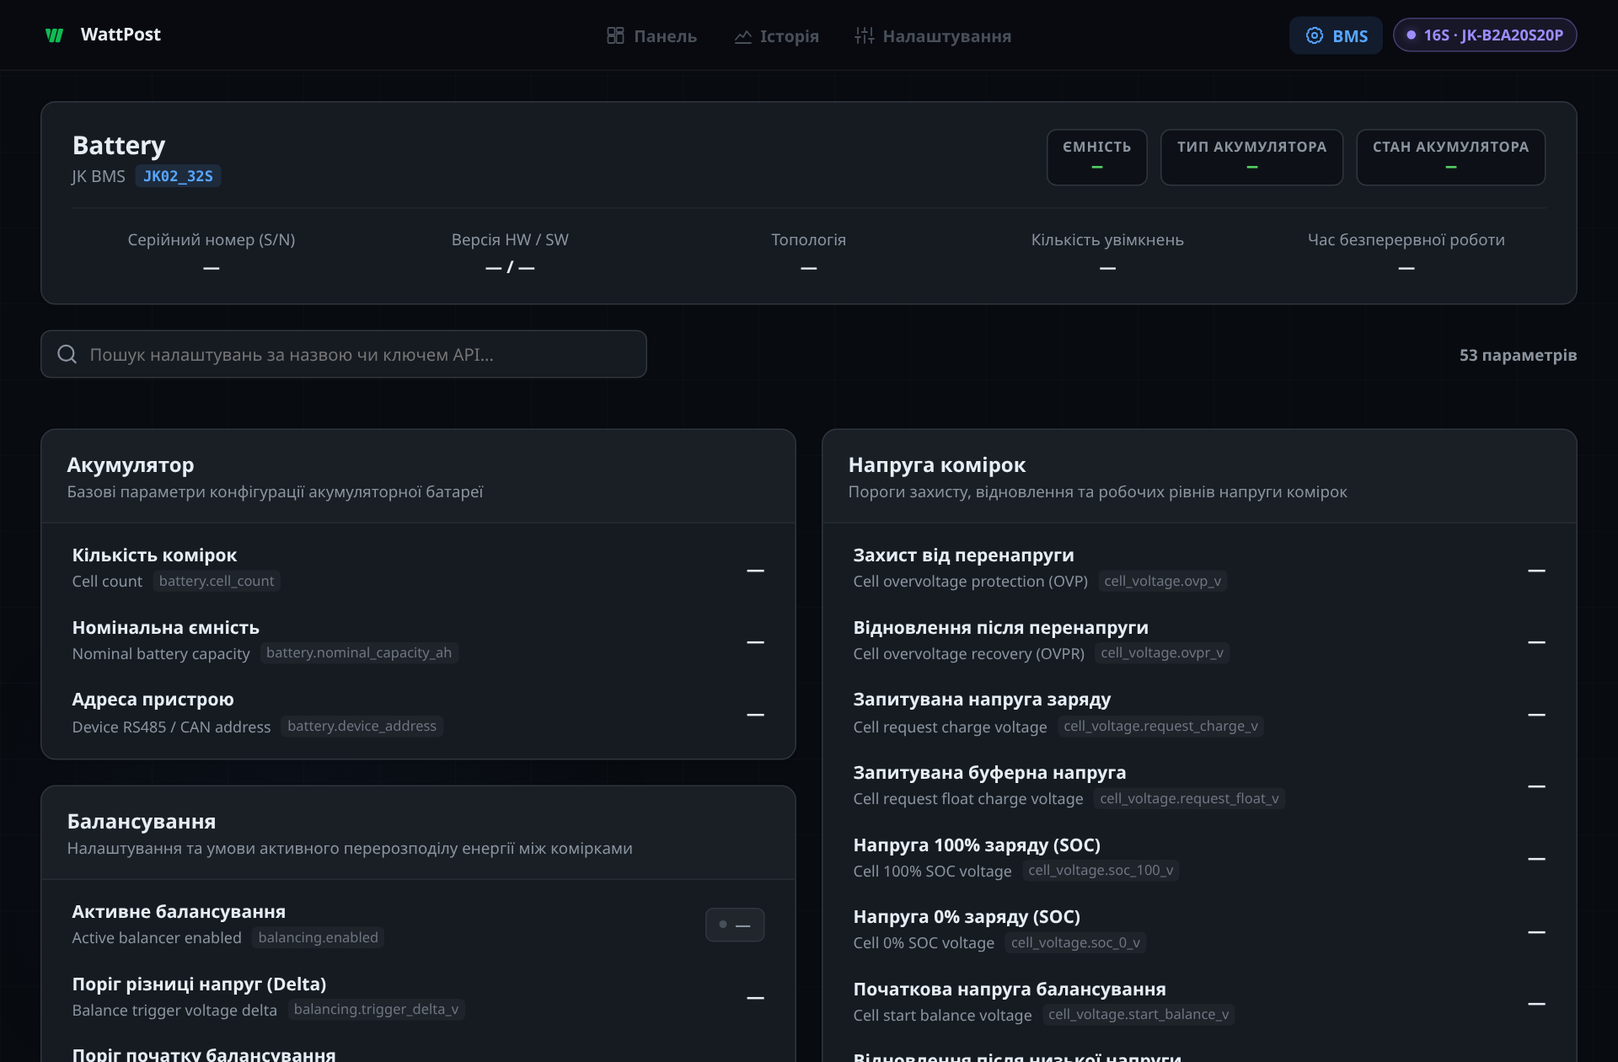
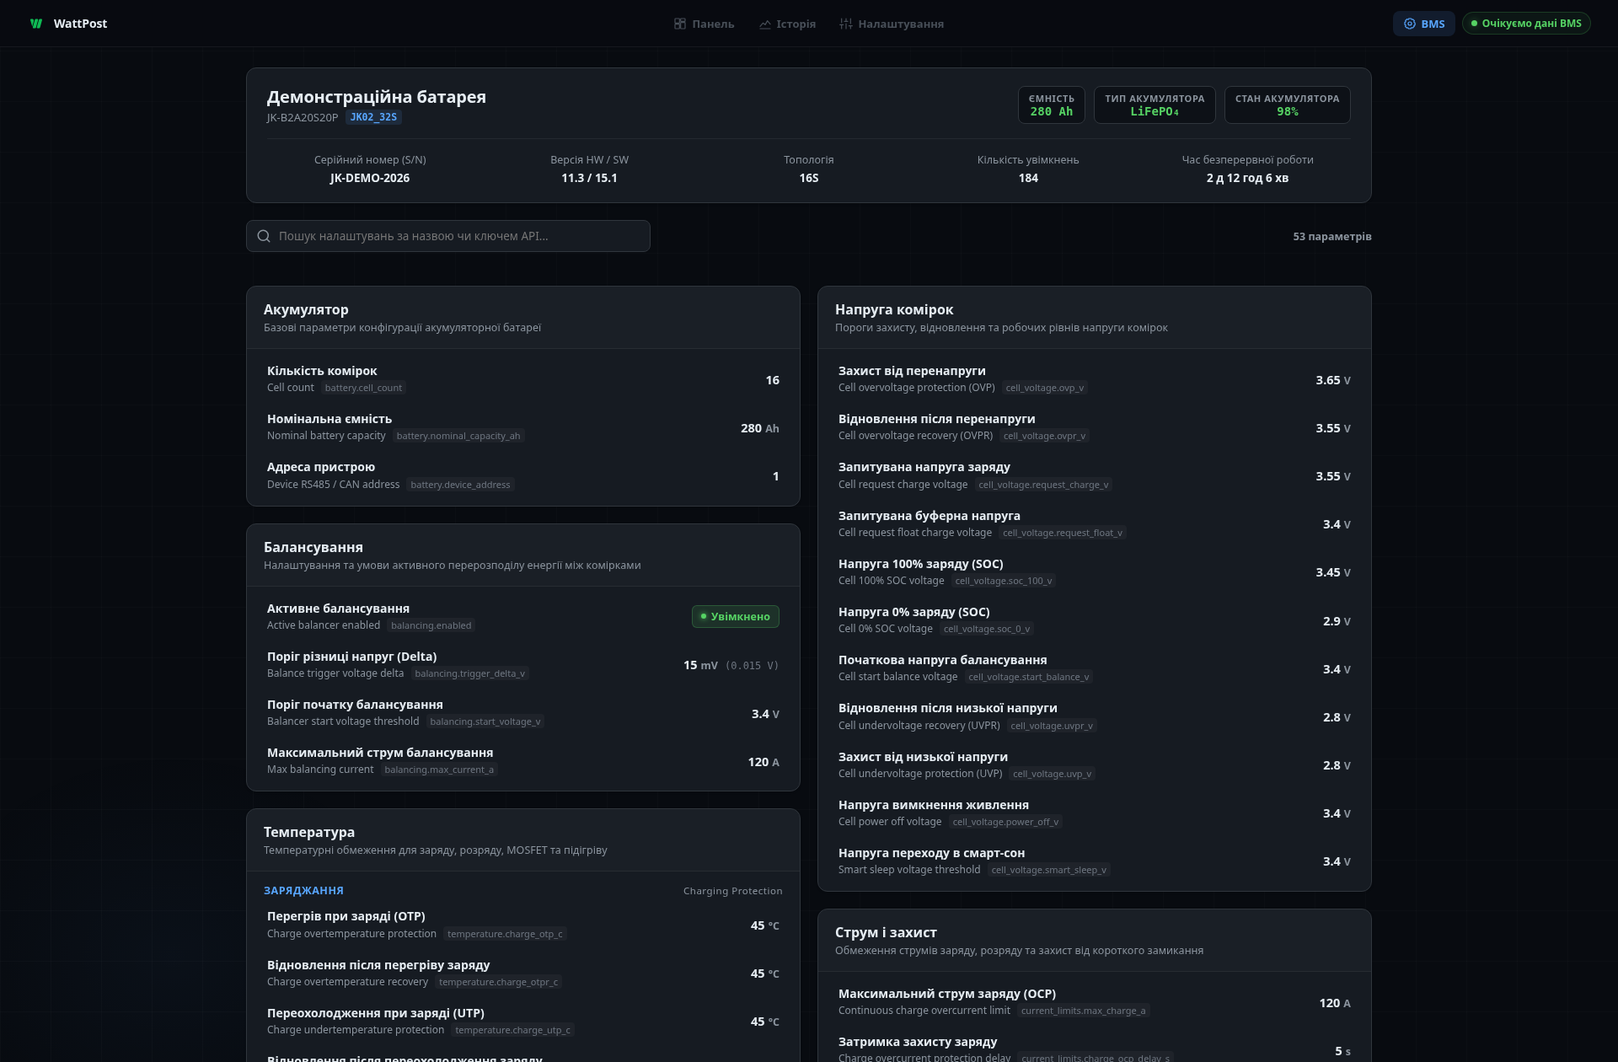
docs: verify beginner guidance and show populated demo BMS settings

diff --git a/README.md b/README.md
@@ -17,17 +17,17 @@
 
 ## Основні можливості
 
-- **Панель моніторингу (Dashboard)**  
+- **Панель моніторингу (Dashboard)**
   Візуалізація потоків енергії в реальному часі (заряд, розряд або очікування), рівень заряду (SOC %), загальна напруга, струм і активна потужність у ватах. Інтерактивні графічні індикатори напруги кожної комірки з автоматичним підсвічуванням найвищої та найнижчої комірок, балансування та дельта (розбіг у мілівольтах).
 
-- **Локальна історія до 14 днів (History)**  
+- **Локальна історія до 14 днів (History)**
   ESP32 накопичує дані у власній Flash-пам’яті без потреби в SD-картах чи сторонніх серверах. Графіки напруги, струму, потужності, температур і розбігу комірок дають змогу детально аналізувати цикли заряду та розряду. Дані зберігаються при перезавантаженні пристрою.
 
-- **Перегляд налаштувань BMS (BMS Settings)**  
+- **Перегляд налаштувань BMS (BMS Settings)**
   Зручне структуроване відображення всіх параметрів, зчитаних із JK BMS: захист за напругою (OVP/UVP), поріг та струм активного балансування, струмові ліміти, температурні відсічки, серійний номер, версії апаратного та програмного забезпечення BMS.
 
-- **Мобільна адаптивність**  
-  Інтерфейс розроблено за стандартом mobile-first: зручно користуватися як на великому моніторі комп'ютера, так і на екрані смартфона.
+- **Мобільна адаптивність**
+  Інтерфейс адаптовано для смартфонів: зручно користуватися як на великому моніторі комп'ютера, так і на екрані смартфона.
 
 ---
 
@@ -36,13 +36,13 @@
 ```
 ┌─────────────────┐       Bluetooth LE       ┌─────────────────┐        Wi-Fi (mDNS)        ┌─────────────────┐
 │     Акумулятор   │ ──────────────────────> │      ESP32      │ ─────────────────────────> │   Будь-який     │
-│    з JK BMS     │   (повна ізоляція,      │ з прошивкою     │    http://bms.local/       │   браузер       │
+│    з JK BMS     │   (без дротів,      │ з прошивкою     │    http://bms.local/       │   браузер       │
 │                 │    без дротів)          │   WattPost      │   (або IP-адреса)          │  (телефон/ПК)   │
 └─────────────────┘                         └─────────────────┘                            └─────────────────┘
 ```
 
-1. **JK BMS** постійно контролює стан батареї та транслює телеметрію через Bluetooth Low Energy (BLE).
-2. **ESP32** з прошивкою WattPost підключається до BMS по повітрю, обробляє пакети даних і записує історію. Між ESP32 та силовою батареєю немає жодних дротів чи пайки, що гарантує гальванічну безпеку.
+1. **JK BMS** постійно контролює стан батареї та надає телеметрію підключеному пристрою через Bluetooth Low Energy (BLE).
+2. **ESP32** з прошивкою WattPost підключається до BMS по повітрю, обробляє пакети даних і записує історію. Для отримання телеметрії ESP32 не потрібно підключати проводами до силових клем акумулятора.
 3. **Локальний вебінтерфейс** транслюється у вашу домашню Wi-Fi-мережу. Ви відкриваєте звичайний браузер і бачите все, що відбувається з акумулятором.
 
 ---
@@ -54,10 +54,10 @@
 | **Адреса** | `http://bms.local/` або локальна IP | [wattpost.pp.ua](https://wattpost.pp.ua) |
 | **Реєстрація** | **Не потрібна** | Потрібен безкоштовний акаунт |
 | **Інтернет** | **Не потрібен** (працює автономно) | Потрібен для віддаленого перегляду |
-| **Конфіденційність** | Усі дані залишаються у вашій мережі | Дані синхронізуються із захищеною хмарою |
+| **Конфіденційність** | Дані залишаються локально, якщо ви не ввімкнули Cloud | Дані синхронізуються із захищеною хмарою |
 | **Віддалений доступ** | Лише всередині Wi-Fi мережі | З будь-якої точки світу через інтернет |
 | **Кілька пристроїв** | Окремо на кожному пристрої | Моніторинг кількох ESP32 в одному кабінеті |
-| **Оновлення (OTA)** | Доступні при підключенні до інтернету | Автоматичні перевірені оновлення |
+| **Оновлення (OTA)** | Через підключений WattPost Cloud | Автоматичні або ручні підписані оновлення |
 
 > [!NOTE]
 > Локальний вебінтерфейс є повнофункціональним і незалежним. Підключення до WattPost Cloud є **повністю добровільним**. Якщо хмара або інтернет недоступні, ESP32 продовжує зчитувати показники BMS і зберігати історію локально.
@@ -125,7 +125,7 @@
 
 - **Безпека та верифікація**: прошивка підтримує оновлення повітрям (OTA). Кожен офіційний реліз підписується цифровим підписом. ESP32 перевіряє криптографічний підпис перед встановленням нового бінарного образу.
 - **Захист від збоїв (Rollback protection)**: у Flash-пам'яті виділено два чергових OTA-розділи. Якщо після оновлення система не зможе успішно запуститися, завантажувач автоматично повернеться до попередньої робочої версії.
-- **Оновлення без USB**: після першого запису через кабель усі наступні штатні оновлення можна здійснювати віддалено.
+- **Оновлення без USB**: після першого запису через кабель офіційні оновлення можна встановлювати через WattPost Cloud, якщо ESP32 підключена до інтернету.
 
 ---
 

diff --git a/docs/INSTALLATION.en.md b/docs/INSTALLATION.en.md
@@ -8,12 +8,12 @@ This guide is written for users who have never flashed an ESP32 or microcontroll
 
 ## 1. What You Need
 
-- **ESP32 Development Board**  
-  A classic **ESP32-WROOM-32** or **ESP32-WROOM-32D DevKit** with **4 MB Flash memory** and an onboard USB port (Micro-USB or Type-C).  
+- **ESP32 Development Board**
+  A classic **ESP32-WROOM-32** or **ESP32-WROOM-32D DevKit** with **4 MB Flash memory** and an onboard USB port (Micro-USB or Type-C).
   *Incompatible: bare modules without USB, or boards using different chips (ESP32-C3, ESP32-S3, etc. — currently a classic ESP32 is required).*
-- **Battery Pack with a Compatible JK BMS**  
-  Any modern JK BMS (JK-B1A..., JK-B2A..., JK-BD... series) equipped with **Bluetooth LE**.
-- **USB Data Cable**  
+- **Battery Pack with a Compatible JK BMS**
+  A compatible JK BMS with **Bluetooth LE**. Compatibility depends on the model and protocol version; Bluetooth alone does not guarantee support.
+- **USB Data Cable**
   *Crucial: cheap charge-only cables do not carry USB data lines and your computer will not detect the board.*
 - **Computer** running Windows, Linux, or macOS.
 - **2.4 GHz Home Wi-Fi Network** (ESP32 hardware supports 802.11 b/g/n 2.4 GHz; 5 GHz Wi-Fi networks are not supported by the chip).
@@ -67,7 +67,7 @@ We use Espressif's official, open-source command-line tool **`esptool`**.
    *(On Linux or macOS, use `python3` instead of `python`).*
 
 5. **Flash address `0x0`**: Because `WattPost-ESP32-full.bin` is a complete full-flash image, it is written starting at the very beginning of the flash memory (`0x0`).
-6. Wait 20–30 seconds until the terminal displays **"Hash of data verified. Leaving... Staying in bootloader"**.
+6. Wait for esptool to confirm that writing and verification succeeded. The time depends on the USB port and baud rate.
 7. Press the **EN** (or **RESET**) button on your ESP32 board to restart it in normal run mode.
 
 > [!TIP]
@@ -87,15 +87,15 @@ On first boot, the ESP32 broadcasts its own Wi-Fi access point for guided setup 
 1. Open the Wi-Fi settings on your phone or laptop.
 2. Find and connect to the network named **`WattPost-XXXX`** (where XXXX is unique to your board).
 3. Enter the default setup password: **`12345678`**.
-4. Most smartphones will automatically open the captive portal login screen. If it does not open automatically, navigate to:  
+4. Some phones will automatically open the captive portal setup screen. If it does not open automatically, navigate to:
    👉 **http://192.168.4.1/**
 5. Click **"Get Started"**:
    - **Step 1 — Wi-Fi**: Select your 2.4 GHz home Wi-Fi network from the list (or click "Scan"), enter the network password, and click "Connect". The ESP32 verifies the connection and obtains an IP address on your home LAN.
-   - **Step 2 — JK BMS**: The wizard will scan for nearby Bluetooth devices. Select your JK BMS from the list and confirm.
+   - **Step 2 — JK BMS**: The wizard lets you scan for a JK BMS. If your BMS is not available yet, you can finish Wi-Fi setup and select the BMS later from the local interface.
 6. Click **"Finish"**. The ESP32 saves the settings, disables the temporary setup AP, and switches to normal operating mode.
 
 > [!IMPORTANT]
-> **Important JK BMS Bluetooth Limitation:**  
+> **Important JK BMS Bluetooth Limitation:**
 > Most JK BMS units can only maintain **one active Bluetooth connection at a time**. If the official JK BMS mobile application is currently connected to the battery on your phone, disconnect and close the app. Otherwise, the BMS will appear busy and the ESP32 will not be able to connect.
 
 ---
@@ -109,9 +109,9 @@ Once setup is complete, reconnect your phone or computer to your normal home Wi-
 You will see the WattPost live dashboard displaying your battery's state in real time!
 
 ### What if bms.local does not load?
-The `bms.local` hostname uses mDNS (Bonjour / Avahi). Modern Apple devices, Linux, Windows 10/11, and modern Android versions resolve it out of the box.  
+The `bms.local` hostname uses mDNS (Bonjour / Avahi). mDNS support depends on the device and network settings; it may not work everywhere.
 If your router or device fails to resolve mDNS names:
-1. Locate the IP address assigned by your router to the ESP32 (displayed on the final step of the setup wizard, or visible in your router's DHCP client list under device name `wattpost`).
+1. Locate the IP address assigned by your router to the ESP32 (displayed on the final step of the setup wizard, or visible in your router's DHCP client list (the device name may differ)).
 2. Open the interface directly using its IP address: for example, **`http://192.168.1.120/`**.
 3. We recommend binding a static IP address to the ESP32's MAC address in your router DHCP settings for convenience.
 
@@ -137,5 +137,5 @@ WattPost Cloud allows viewing multiple batteries from different locations in one
 | No WattPost-XXXX Wi-Fi network appears | Insufficient power or flashing incomplete | Ensure stable 5V 1A+ USB power; press the EN/RESET button on the board. |
 | Phone displays "No internet connection" on WattPost-XXXX | Normal behavior for an isolated setup AP | Keep the connection active; temporarily disable mobile cellular data while setting up. |
 | JK BMS is not discovered during scan | BMS is connected to another phone or out of range | Close the JK app on any phone; bring ESP32 within 5–10 m (15–30 ft) of the battery. |
-| bms.local does not open | Client lacks mDNS support or is on guest Wi-Fi | Ensure you are on the same 2.4 GHz subnet; open using direct IP (e.g. `http://192.168.1.50/`). |
+| bms.local does not open | Client lacks mDNS support or is on guest Wi-Fi | Ensure your phone or computer is on the same local network as ESP32; open using direct IP (e.g. `http://192.168.1.50/`). |
 | Telemetry shows "Waiting for BMS" | Battery switched off or BMS went to sleep | Verify battery power switch; ensure no mobile phone holds an active BLE session to the BMS. |

diff --git a/README.en.md b/README.en.md
@@ -17,17 +17,17 @@ Designed for DIY battery builders, home solar energy storage systems, and backup
 
 ## Key Features
 
-- **Real-Time Energy Dashboard**  
+- **Real-Time Energy Dashboard**
   Live energy flow animation (charging, discharging, or idle states), State of Charge (SOC %), total battery pack voltage, current, and active power in Watts. Interactive cell voltage bars with automatic highlight of the highest and lowest cells, active balancing indicator, and cell delta (spread in millivolts).
 
-- **14-Day On-Device History**  
+- **14-Day On-Device History**
   The ESP32 logs data directly to its internal Flash memory without requiring an SD card or external server. Interactive charts for voltage, current, power, temperatures, and cell spread allow you to zoom in and analyze charge/discharge cycles. History is preserved across device reboots.
 
-- **JK BMS Settings Inspector**  
+- **JK BMS Settings Inspector**
   Clean, structured read-only display of configured JK BMS parameters: overvoltage and undervoltage protection (OVP/UVP), active balancing start threshold and balance current, charge/discharge overcurrent limits, temperature cutoff thresholds, smart sleep timer, and BMS hardware/software versions.
 
-- **Mobile-First Responsive Design**  
-  The interface is crafted mobile-first: equally smooth and legible on a handheld smartphone or a large desktop monitor.
+- **Mobile-First Responsive Design**
+  The interface adapts to phones and tablets: equally smooth and legible on a handheld smartphone or a large desktop monitor.
 
 ---
 
@@ -36,13 +36,13 @@ Designed for DIY battery builders, home solar energy storage systems, and backup
 ```
 ┌─────────────────┐       Bluetooth LE       ┌─────────────────┐        Wi-Fi (mDNS)        ┌─────────────────┐
 │     Battery     │ ──────────────────────> │      ESP32      │ ─────────────────────────> │    Any Web      │
-│   with JK BMS   │   (air-gapped wireless, │ running WattPost│    http://bms.local/       │    Browser      │
+│   with JK BMS   │   (no signal wires, │ running WattPost│    http://bms.local/       │    Browser      │
 │                 │     zero wires)         │    firmware     │   (or device IP address)   │  (Phone/PC)     │
 └─────────────────┘                         └─────────────────┘                            └─────────────────┘
 ```
 
-1. **JK BMS** continuously monitors battery cells and broadcasts telemetry over Bluetooth Low Energy (BLE).
-2. **ESP32** running WattPost firmware connects wirelessly to the BMS, parses telemetry frames, and records local history. No wires or soldering between the ESP32 and the battery pack are required, ensuring galvanic safety.
+1. **JK BMS** continuously monitors battery cells and provides telemetry to a connected device over Bluetooth Low Energy (BLE).
+2. **ESP32** running WattPost firmware connects wirelessly to the BMS, parses telemetry frames, and records local history. ESP32 does not need a wired connection to the battery terminals to read BMS telemetry.
 3. **Local Web Interface** is served on your local Wi-Fi. Simply open a browser and inspect everything happening with your battery pack.
 
 ---
@@ -54,10 +54,10 @@ Designed for DIY battery builders, home solar energy storage systems, and backup
 | **Access URL** | `http://bms.local/` or local IP | [wattpost.pp.ua](https://wattpost.pp.ua) |
 | **Account / Sign-up** | **Not required** | Free account |
 | **Internet Connection**| **Not required** (works offline) | Required for remote viewing |
-| **Privacy** | 100% of telemetry stays on your LAN | Synchronized to secure Cloud storage |
+| **Privacy** | Telemetry stays local unless you enable Cloud sync | Synchronized to secure Cloud storage |
 | **Remote Access** | Local Wi-Fi network only | Anywhere in the world over the internet |
 | **Multiple Batteries** | Accessed per ESP32 device | Multi-device fleet view in one dashboard |
-| **Firmware Updates** | Supported with internet access | Automated verified OTA updates |
+| **Firmware Updates** | Via connected WattPost Cloud | Automatic or manual signed OTA updates |
 
 > [!NOTE]
 > The local web interface is fully functional and completely autonomous. Connecting to WattPost Cloud is **entirely optional**. If the Cloud or internet connection is unavailable, the ESP32 continues reading BMS metrics and recording history locally.
@@ -125,7 +125,7 @@ New to ESP32? Follow our **[step-by-step beginner installation guide](docs/INSTA
 
 - **Security & Integrity**: WattPost supports Over-The-Air (OTA) updates. Every official release is digitally signed by the maintainer. The ESP32 cryptographically verifies the signature before applying any new firmware binary.
 - **Rollback Protection**: Dual OTA partitions ensure fault tolerance. If newly flashed firmware fails to boot or validate, the bootloader automatically reverts to the previous working partition.
-- **No USB Required After Setup**: Once flashed initially via USB, all future official firmware updates can be installed wirelessly.
+- **No USB Required After Setup**: After the first USB installation, official updates can be installed wirelessly when ESP32 is connected to WattPost Cloud and the internet.
 
 ---
 
